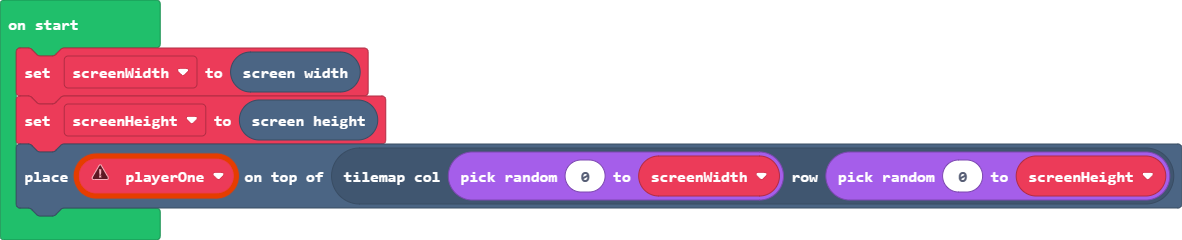
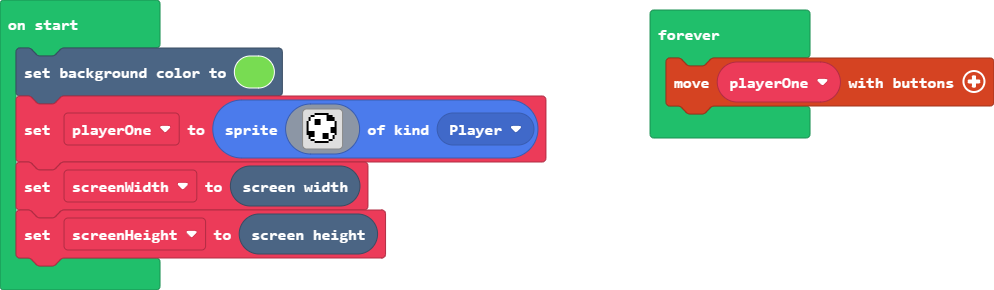
Basic movement

diff --git a/images.g.ts b/images.g.ts
@@ -1,0 +1,63 @@
+// Auto-generated code. Do not edit.
+namespace myImages {
+
+    helpers._registerFactory("image", function(name: string) {
+        switch(helpers.stringTrim(name)) {
+            case "image1":
+            case "ballSoccer":return img`
+. . . . f f f f f f f . . . . . 
+. . f f 1 1 1 1 1 1 f f f . . . 
+. f 1 1 1 1 1 1 1 1 f f f f . . 
+. f 1 1 f f f 1 1 1 f f f f . . 
+f 1 1 1 f f f 1 1 1 1 1 1 1 f . 
+f 1 1 1 f f f 1 1 1 1 1 1 1 f . 
+f 1 1 1 1 1 1 1 1 1 1 1 1 1 f . 
+f 1 1 1 1 1 1 1 1 1 1 1 f f f . 
+f 1 1 1 1 1 1 1 1 1 1 1 f f f . 
+f f f f 1 1 1 1 1 1 1 1 f f f . 
+f f f f 1 1 1 1 f f f 1 1 1 f . 
+. f f f 1 1 1 1 f f f 1 1 f . . 
+. f 1 1 1 1 1 1 f f f 1 1 f . . 
+. . f f 1 1 1 1 1 1 1 f f . . . 
+. . . . f f f f f f f . . . . . 
+. . . . . . . . . . . . . . . . 
+`;
+            case "image2":
+            case "goal":return img`
+f f f f f f f f f . . . . . . . 
+f . . . . . . . . . . . . . . . 
+f . . . . . . . . . . . . . . . 
+f . . . . . . . . . . . . . . . 
+f . . . . . . . . . . . . . . . 
+f . . . . . . . . . . . . . . . 
+f . . . . . . . . . . . . . . . 
+f . . . . . . . . . . . . . . . 
+f . . . . . . . . . . . . . . . 
+f . . . . . . . . . . . . . . . 
+f . . . . . . . . . . . . . . . 
+f . . . . . . . . . . . . . . . 
+f . . . . . . . . . . . . . . . 
+f . . . . . . . . . . . . . . . 
+f . . . . . . . . . . . . . . . 
+f f f f f f f f f . . . . . . . 
+`;
+        }
+        return null;
+    })
+
+    helpers._registerFactory("animation", function(name: string) {
+        switch(helpers.stringTrim(name)) {
+
+        }
+        return null;
+    })
+
+    helpers._registerFactory("song", function(name: string) {
+        switch(helpers.stringTrim(name)) {
+
+        }
+        return null;
+    })
+
+}
+// Auto-generated code. Do not edit.

diff --git a/tilemap.g.ts b/tilemap.g.ts
@@ -1,0 +1,14 @@
+// Auto-generated code. Do not edit.
+namespace myTiles {
+    //% fixedInstance jres blockIdentity=images._tile
+    export const transparency16 = image.ofBuffer(hex``);
+
+    helpers._registerFactory("tile", function(name: string) {
+        switch(helpers.stringTrim(name)) {
+            case "transparency16":return transparency16;
+        }
+        return null;
+    })
+
+}
+// Auto-generated code. Do not edit.

diff --git a/main.ts b/main.ts
@@ -1,4 +1,7 @@
-let playerOne: Sprite = null
+scene.setBackgroundColor(7)
+let playerOne = sprites.create(assets.image`ballSoccer`, SpriteKind.Player)
 let screenWidth = scene.screenWidth()
 let screenHeight = scene.screenHeight()
-tiles.placeOnTile(playerOne, tiles.getTileLocation(randint(0, screenWidth), randint(0, screenHeight)))
+forever(function () {
+    controller.moveSprite(playerOne)
+})
